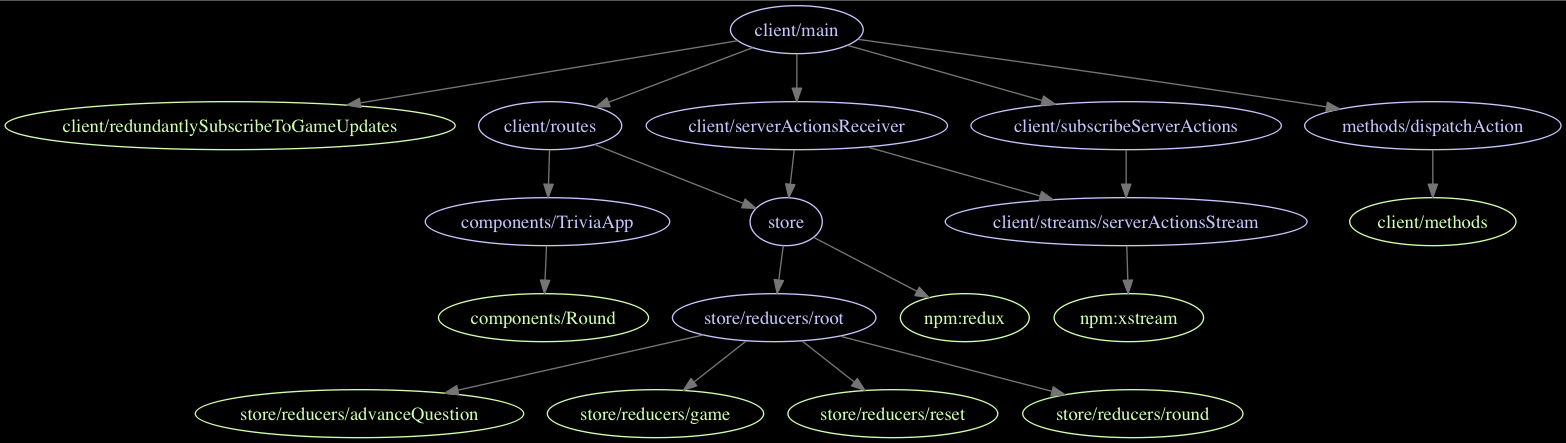
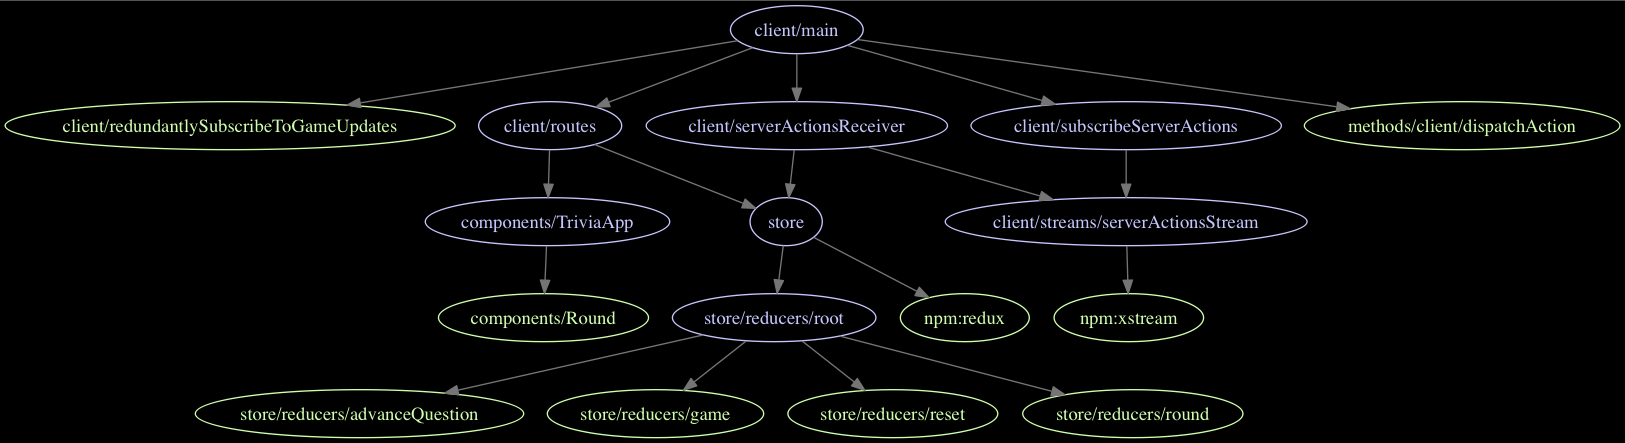
Implement dispatchAction UniMethod in separate files

diff --git a/imports/methods/server/dispatchAction.js b/imports/methods/server/dispatchAction.js
@@ -1,0 +1,17 @@
+import { UniMethod } from 'meteor/deanius:uni-method'
+
+import { fromJS } from 'immutable'
+import { pushNext } from '/imports/server/streams/incomingClientActions'
+
+let preDispatch = () => {}
+const handleDispatch = (action) => {
+  console.log(`Recieved ${action.type} from client, putting on stream..`)
+  pushNext(fromJS(action))
+}
+
+export const { dispatchAction } = UniMethod.methods({
+  dispatchAction: {
+    clientStub: preDispatch,
+    serverMethod: handleDispatch
+  }
+})

diff --git a/imports/methods/client/dispatchAction.js b/imports/methods/client/dispatchAction.js
@@ -1,0 +1,13 @@
+import { UniMethod } from 'meteor/deanius:uni-method'
+
+let handleDispatch = () => {}
+let preDispatch = (action) => {
+  console.log(`Dispatching ${action.type} action to server`)
+}
+
+export const { dispatchAction } = UniMethod.methods({
+  dispatchAction: {
+    clientStub: preDispatch,
+    serverMethod: handleDispatch
+  }
+})

diff --git a/imports/client/main.js b/imports/client/main.js
@@ -1,7 +1,7 @@
 /* eslint no-unused-vars:0 */
 import routes from './routes'
 
-import { dispatchAction } from '../methods/dispatchAction'
+import { dispatchAction } from '../methods/client/dispatchAction'
 
 import subscribeServerActions from './subscribeServerActions'
 import serverActionsReceiver from './serverActionsReceiver'

diff --git a/imports/server/main.js b/imports/server/main.js
@@ -1,6 +1,6 @@
 /* eslint no-unused-vars:0 */
 
-import { dispatchAction } from '../methods/dispatchAction'
+import { dispatchAction } from '../methods/server/dispatchAction'
 import serverActions from './publications/serverActions'
 
 import * as Collections from '../collections/collections'

diff --git a/scripts/tweak-deps.rb b/scripts/tweak-deps.rb
@@ -47,9 +47,6 @@ tweaked = deps.inject({}){ |all, (mod, deps)|
     all
 }
 
-# invisible ones
-tweaked['methods/dispatchAction'] << 'client/methods' << 'server/methods'
-
 exclude && tweaked.each{ |mod, deps| deps.reject!{ |d| d.include?(exclude) } }
 
 print JSON.dump(tweaked)
